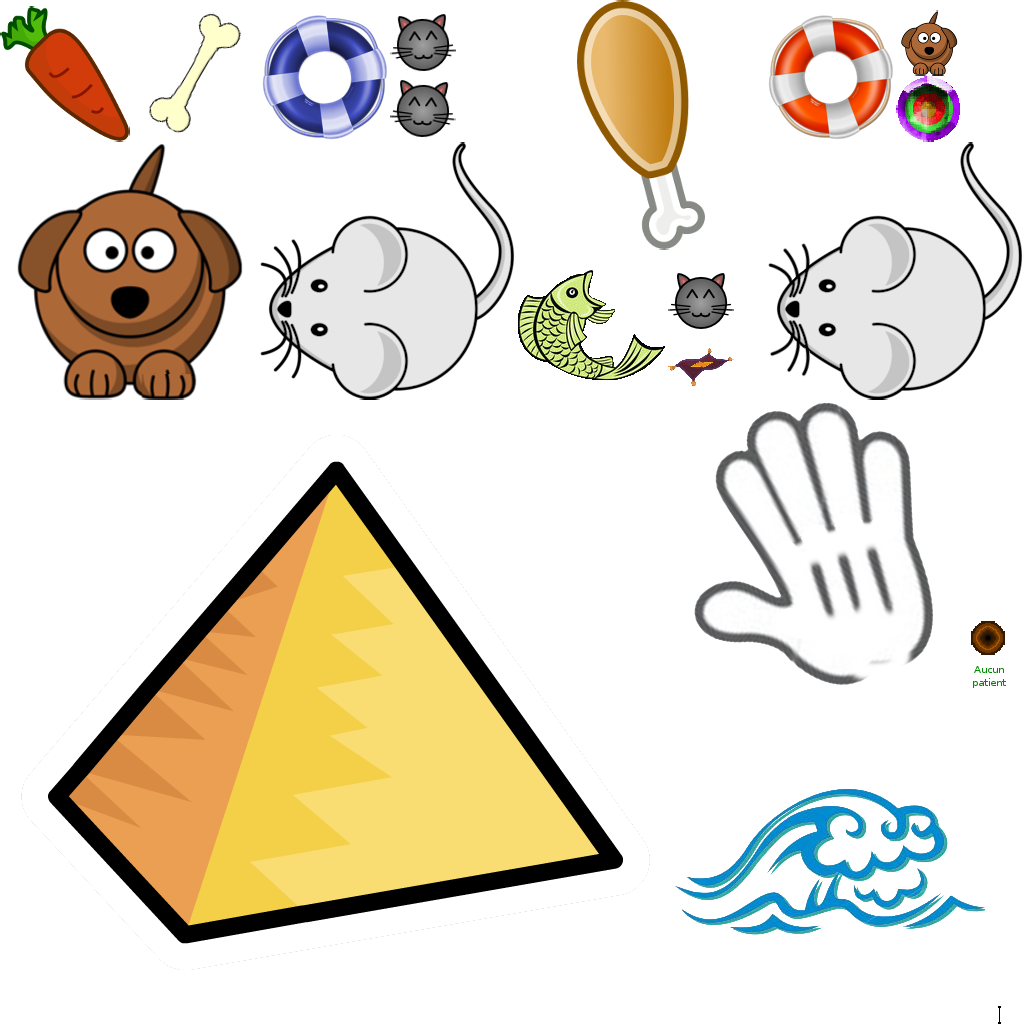
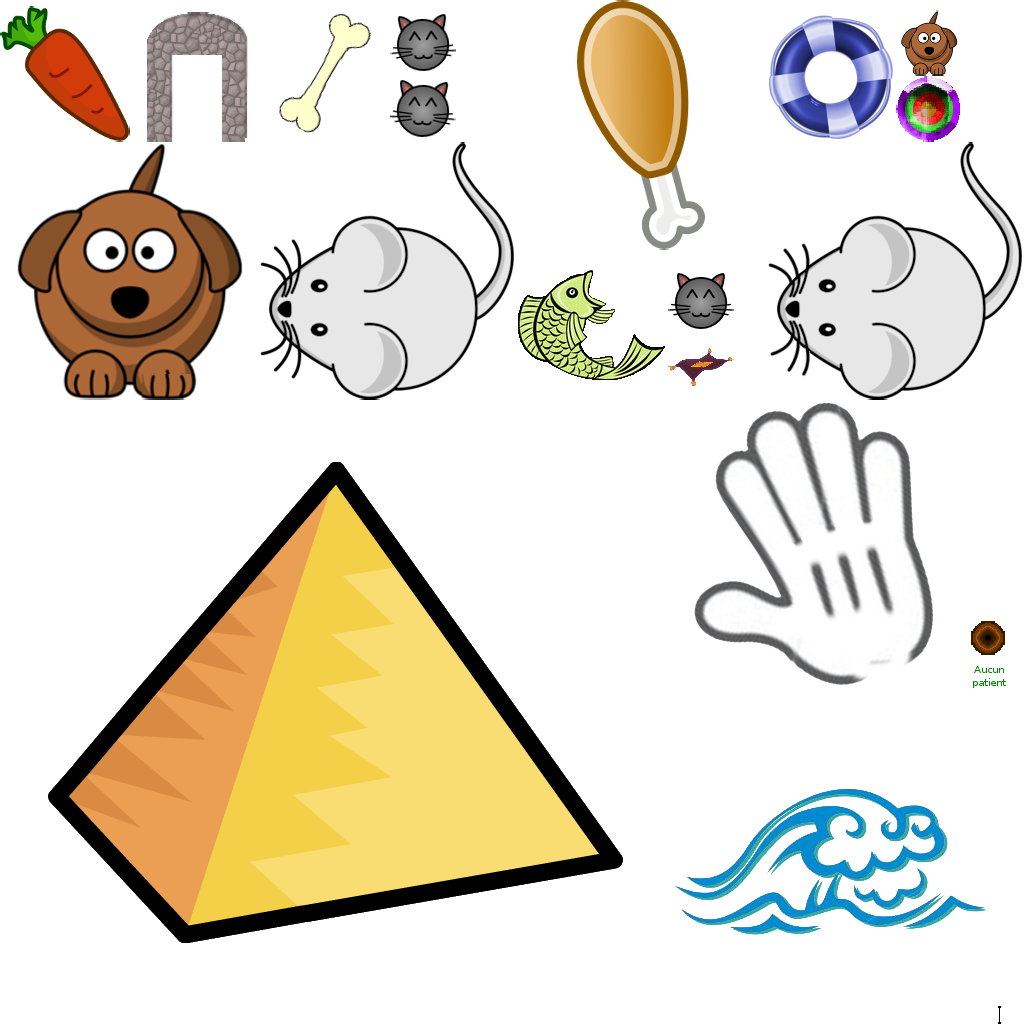
version prete a etre testee

Changed region(s): [[0.125, 0.0, 0.375, 0.1562], [0.75, 0.0, 0.875, 0.1562]]

diff --git a/rollingcat/src/fr/lirmm/smile/rollingcat/screen/CharacterSelectScreen.java b/rollingcat/src/fr/lirmm/smile/rollingcat/screen/CharacterSelectScreen.java
@@ -1,6 +1,9 @@
 package fr.lirmm.smile.rollingcat.screen;
 
-import static fr.lirmm.smile.rollingcat.Localisation.*;
+import static fr.lirmm.smile.rollingcat.Localisation._back;
+import static fr.lirmm.smile.rollingcat.Localisation._no;
+import static fr.lirmm.smile.rollingcat.Localisation._win;
+import static fr.lirmm.smile.rollingcat.Localisation._yes;
 import static fr.lirmm.smile.rollingcat.Localisation.localisation;
 import static fr.lirmm.smile.rollingcat.utils.GdxRessourcesGetter.getGameSkin;
 import static fr.lirmm.smile.rollingcat.utils.GdxRessourcesGetter.getShapeRenderer;
@@ -11,6 +14,10 @@ import com.badlogic.gdx.Input.Keys;
 import com.badlogic.gdx.Screen;
 import com.badlogic.gdx.graphics.Color;
 import com.badlogic.gdx.graphics.GL10;
+import com.badlogic.gdx.graphics.Texture;
+import com.badlogic.gdx.graphics.TextureData;
+import com.badlogic.gdx.graphics.Texture.TextureFilter;
+import com.badlogic.gdx.graphics.g2d.SpriteBatch;
 import com.badlogic.gdx.graphics.glutils.ShapeRenderer;
 import com.badlogic.gdx.graphics.glutils.ShapeRenderer.ShapeType;
 import com.badlogic.gdx.math.Interpolation;
@@ -19,9 +26,9 @@ import com.badlogic.gdx.scenes.scene2d.Stage;
 import com.badlogic.gdx.scenes.scene2d.actions.Actions;
 import com.badlogic.gdx.scenes.scene2d.ui.Image;
 import com.badlogic.gdx.scenes.scene2d.ui.Label;
+import com.badlogic.gdx.scenes.scene2d.ui.Label.LabelStyle;
 import com.badlogic.gdx.scenes.scene2d.ui.Table;
 import com.badlogic.gdx.scenes.scene2d.ui.TextButton;
-import com.badlogic.gdx.scenes.scene2d.ui.Label.LabelStyle;
 import com.badlogic.gdx.scenes.scene2d.ui.TextButton.TextButtonStyle;
 import com.badlogic.gdx.scenes.scene2d.ui.Window;
 import com.badlogic.gdx.scenes.scene2d.ui.Window.WindowStyle;
@@ -49,6 +56,10 @@ public class CharacterSelectScreen implements Screen {
 	private TextButton back, yes, no;
 	private Window win;
 	private Label windowText;
+	private SpriteBatch batch;
+	private Image arch, door;
+	private float d;
+	private Texture backgroundTexture;
 	
 	public CharacterSelectScreen(RollingCat game){
 		this.game = game;
@@ -63,6 +74,21 @@ public class CharacterSelectScreen implements Screen {
 		
 		loadingWidth = goBoss.getX() - temple.getX() - GameConstants.BLOCK_WIDTH * 4 - GameConstants.BLOCK_HEIGHT * 0.5f;
 
+		d += Gdx.graphics.getDeltaTime() * 10;
+
+		batch.begin();
+		batch.draw(backgroundTexture, 0, 0, GameConstants.DISPLAY_WIDTH, GameConstants.DISPLAY_HEIGHT);
+		batch.end();
+		
+		if(door.getY() > arch.getY() + arch.getHeight() * 0.2f)
+		{
+			door.setDrawable(GdxRessourcesGetter.getGameSkin().getDrawable("door1"));
+		}
+		if(door.getY() > arch.getY() + arch.getHeight() * 0.45f)
+		{
+			door.setDrawable(GdxRessourcesGetter.getGameSkin().getDrawable("door2"));
+		}
+		
 		if(cat.getActions().size == 0 && !catReachedHisGoal)
 		{
 			if(InternetManager.nblevels[0] == 20)
@@ -145,8 +171,14 @@ public class CharacterSelectScreen implements Screen {
 			{
 				sr.setColor(Color.GREEN);
 				sr.rect(originX + loadingWidth + GameConstants.DISPLAY_WIDTH * 0.015f, water.getY(), loadingHeight, -water.getY() + turtle.getY() + loadingHeight * 0.8f);
+				if(door.getActions().size == 0)
+				{
+					door.addAction(Actions.sequence(
+							Actions.delay(4),
+							Actions.moveTo(door.getX(), arch.getY() + door.getHeight() * 0.6f, 5, Interpolation.linear)
+							));
+				}
 			}
-			goBoss.setVisible(true);
 		}
 
 		sr.end();
@@ -166,7 +198,6 @@ public class CharacterSelectScreen implements Screen {
 		yes.setY(win.getHeight() * 0.1f);
 		no.setX(win.getWidth() * 0.9f - no.getWidth());
 		no.setY(win.getHeight() * 0.1f);
-		
 	}
 
 	@Override
@@ -177,6 +208,7 @@ public class CharacterSelectScreen implements Screen {
 	public void show() {
 		stage = getStage();
 		sr = getShapeRenderer();
+		batch = GdxRessourcesGetter.getSpriteBatch();
 		
 		WindowStyle ws = new WindowStyle();
 		ws.titleFont = GdxRessourcesGetter.getBigFont();
@@ -243,13 +275,7 @@ public class CharacterSelectScreen implements Screen {
 		goBoss = new Image(getGameSkin().getDrawable("shit"));
 		goBoss.setVisible(true);
 		
-		goBoss.addListener(new ClickListener() {
-			public void clicked (InputEvent event, float x, float y) {
-				Gdx.app.log(RollingCat.LOG, "no boss yet");
-				win.setVisible(true);
-				win.toFront();
-			}
-		});
+		
 
 		temple.addListener(new ClickListener() {
 			public void clicked (InputEvent event, float x, float y) {
@@ -334,8 +360,33 @@ public class CharacterSelectScreen implements Screen {
 		});
 		
 		stage.addActor(back);
+		
+		goBoss.setVisible(false);
+		
+		arch = new Image(GdxRessourcesGetter.getGameSkin().getDrawable("arch"));
+		door = new Image(GdxRessourcesGetter.getGameSkin().getDrawable("door"));
+		
+		arch.addListener(new ClickListener() {
+			public void clicked (InputEvent event, float x, float y) {
+				Gdx.app.log(RollingCat.LOG, "no boss yet");
+				win.setVisible(true);
+				win.toFront();
+			}
+		});
+		
+		stage.addActor(door);
+		stage.addActor(arch);
 
 		Gdx.input.setInputProcessor(stage);
+		
+		door.setX(goBoss.getX());
+		door.setY(goBoss.getY());
+		arch.setX(goBoss.getX());
+		arch.setY(goBoss.getY());
+		
+		backgroundTexture = new Texture("data/plaine.png");
+		backgroundTexture.setFilter(TextureFilter.Linear, TextureFilter.Linear);
+
 
 	}
 

diff --git a/rollingcat/src/fr/lirmm/smile/rollingcat/screen/PatientSelectScreen.java b/rollingcat/src/fr/lirmm/smile/rollingcat/screen/PatientSelectScreen.java
@@ -109,6 +109,12 @@ public class PatientSelectScreen implements Screen{
 		evaporationPerDayLabel.setVisible(avanceCB.isChecked());
 		alpha.setVisible(avanceCB.isChecked());
 		alphaLabel.setVisible(avanceCB.isChecked());
+		workspaceHeight.setVisible(avanceCB.isChecked());
+		heightLabel.setVisible(avanceCB.isChecked());
+		workspaceWidth.setVisible(avanceCB.isChecked());
+		widthLabel.setVisible(avanceCB.isChecked());
+		
+		
 
 		avanceCB.setX(GameConstants.DISPLAY_WIDTH * 0.325f);
 		avanceCB.setY(GameConstants.DISPLAY_HEIGHT * 0.16f);
@@ -306,7 +312,6 @@ public class PatientSelectScreen implements Screen{
 			totalVolumeLabel = new Label(localisation(_total_volume)+" :", labelStyle);
 			timeoutLabel = new Label(localisation(_timeout)+" :", labelStyle);
 			reversedLevelLabel = new Label(localisation(_reversed)+ " :", labelStyle);
-
 			workspaceHeight = new TextField(""+GameConstants.workspaceHeight, textFieldStyle);
 			workspaceHeight.setRightAligned(false);
 			workspaceHeight.setOriginX(50);
@@ -386,12 +391,6 @@ public class PatientSelectScreen implements Screen{
 			style.font = font;
 			style.fontColor = Color.BLACK;
 
-			tableRightTop.add(heightLabel).left().pad(GameConstants.BLOCK_WIDTH * 0.2f);
-			tableRightTop.add(workspaceHeight).right().padLeft(GameConstants.BLOCK_WIDTH * 3).height(GameConstants.BLOCK_HEIGHT).width(GameConstants.BLOCK_WIDTH);
-			tableRightTop.row();
-			tableRightTop.add(widthLabel).left().pad(GameConstants.BLOCK_WIDTH * 0.2f);
-			tableRightTop.add(workspaceWidth).right().height(GameConstants.BLOCK_HEIGHT).width(GameConstants.BLOCK_WIDTH);
-			tableRightTop.row();
 			tableRightTop.add(nbSuccessLabel).left().pad(GameConstants.BLOCK_WIDTH * 0.2f);
 			tableRightTop.add(nbSuccess).right().height(GameConstants.BLOCK_HEIGHT).width(GameConstants.BLOCK_WIDTH);
 			tableRightTop.row();
@@ -408,6 +407,12 @@ public class PatientSelectScreen implements Screen{
 
 			tableRightTop.add(rangeLabel).left().pad(GameConstants.BLOCK_WIDTH * 0.2f);
 			tableRightTop.add(range).right().height(GameConstants.BLOCK_HEIGHT).width(GameConstants.BLOCK_WIDTH);
+			tableRightTop.row();
+			tableRightTop.add(heightLabel).left().pad(GameConstants.BLOCK_WIDTH * 0.2f);
+			tableRightTop.add(workspaceHeight).right().padLeft(GameConstants.BLOCK_WIDTH * 3).height(GameConstants.BLOCK_HEIGHT).width(GameConstants.BLOCK_WIDTH);
+			tableRightTop.row();
+			tableRightTop.add(widthLabel).left().pad(GameConstants.BLOCK_WIDTH * 0.2f);
+			tableRightTop.add(workspaceWidth).right().height(GameConstants.BLOCK_HEIGHT).width(GameConstants.BLOCK_WIDTH);
 			tableRightTop.row();
 			tableRightTop.add(evaporationPerDayLabel).left().pad(GameConstants.BLOCK_WIDTH * 0.2f);
 			tableRightTop.add(evaporationPerDay).right().height(GameConstants.BLOCK_HEIGHT).width(GameConstants.BLOCK_WIDTH);
@@ -442,7 +447,7 @@ public class PatientSelectScreen implements Screen{
 			zoneTable.setHeight(GameConstants.DISPLAY_HEIGHT * 0.3f);
 			zoneTable.setWidth(GameConstants.DISPLAY_WIDTH * 0.3f);
 			zoneTable.setX(GameConstants.DISPLAY_WIDTH * 0.662f);
-			zoneTable.setY(GameConstants.DISPLAY_HEIGHT * 0.16f);
+			zoneTable.setY(GameConstants.DISPLAY_HEIGHT * 0.3f);
 			zoneTable.invalidate();
 			
 			config.setColor(Color.MAGENTA);
@@ -457,6 +462,7 @@ public class PatientSelectScreen implements Screen{
 			labelPatients.setHeight(GameConstants.DISPLAY_HEIGHT * 0.08f);
 			
 			tableLeft.setColor(1, 1, 1, 1);
+			reversedLevel.setChecked(true);
 			
 		}
 

diff --git a/rollingcat/src/fr/lirmm/smile/rollingcat/screen/AssessmentScreen.java b/rollingcat/src/fr/lirmm/smile/rollingcat/screen/AssessmentScreen.java
@@ -116,51 +116,6 @@ public class AssessmentScreen implements Screen {
 				resume.setVisible(false);
 				mc.pause();
 			}
-			//
-			//			if(canStart() & !mc.isStarted()){
-			//				mc.start();
-			//			}
-			//
-			//			if(mc.isInArea() & waitingToEnterInArea)
-			//			{
-			//				if(triangles.get((int)(mouseAngle.angle()) / angleBetweenTriangles).getProgression() < 1f)
-			//				{
-			//					selected = (int)(mouseAngle.angle()) / angleBetweenTriangles;
-			//				}
-			//			}
-			//
-			//			if(mc.isInArea() & mc.isStarted() & !waitingToEnterInArea & wentInSelectedArea)
-			//			{
-			//				if(timeout < GameConstants.HOVER_TIME )
-			//					timeout += delta;
-			//				else{
-			//					selected = -1;
-			//					wentInSelectedArea = false;
-			//					trianglesDone++;
-			//					if(help == 1)
-			//						help = 2;
-			//					if(help == 3)
-			//						help = 4;
-			//					timeout = 0;
-			//					waitingToEnterInArea = true;
-			//					mc.stop();
-			//				}
-			//			}
-			//			else{
-			//				timeout = 0;
-			//			}
-			//
-			//			if(!mc.isInArea()){
-			//				if(help == 2)
-			//					help = 3;
-			//
-			//				if(help == 4)
-			//					help = 5;
-			//
-			//				if(selected == triangles.size() - 1)
-			//					help = 6;
-			//				waitingToEnterInArea = false;
-			//			}
 
 			if(mc.isInArea())
 			{
@@ -171,7 +126,6 @@ public class AssessmentScreen implements Screen {
 					else
 					{
 						readyToFillArea = true;
-						//						mc.stop();
 						mc.start();
 						timeout = 0;
 						trianglesDone++;
@@ -183,6 +137,10 @@ public class AssessmentScreen implements Screen {
 
 
 					}
+				}
+				else
+				{
+					selected = -1;
 				}
 
 				if(readyToFillArea && triangles.get((int)(mouseAngle.angle()) / angleBetweenTriangles).getProgression() < 1f)
